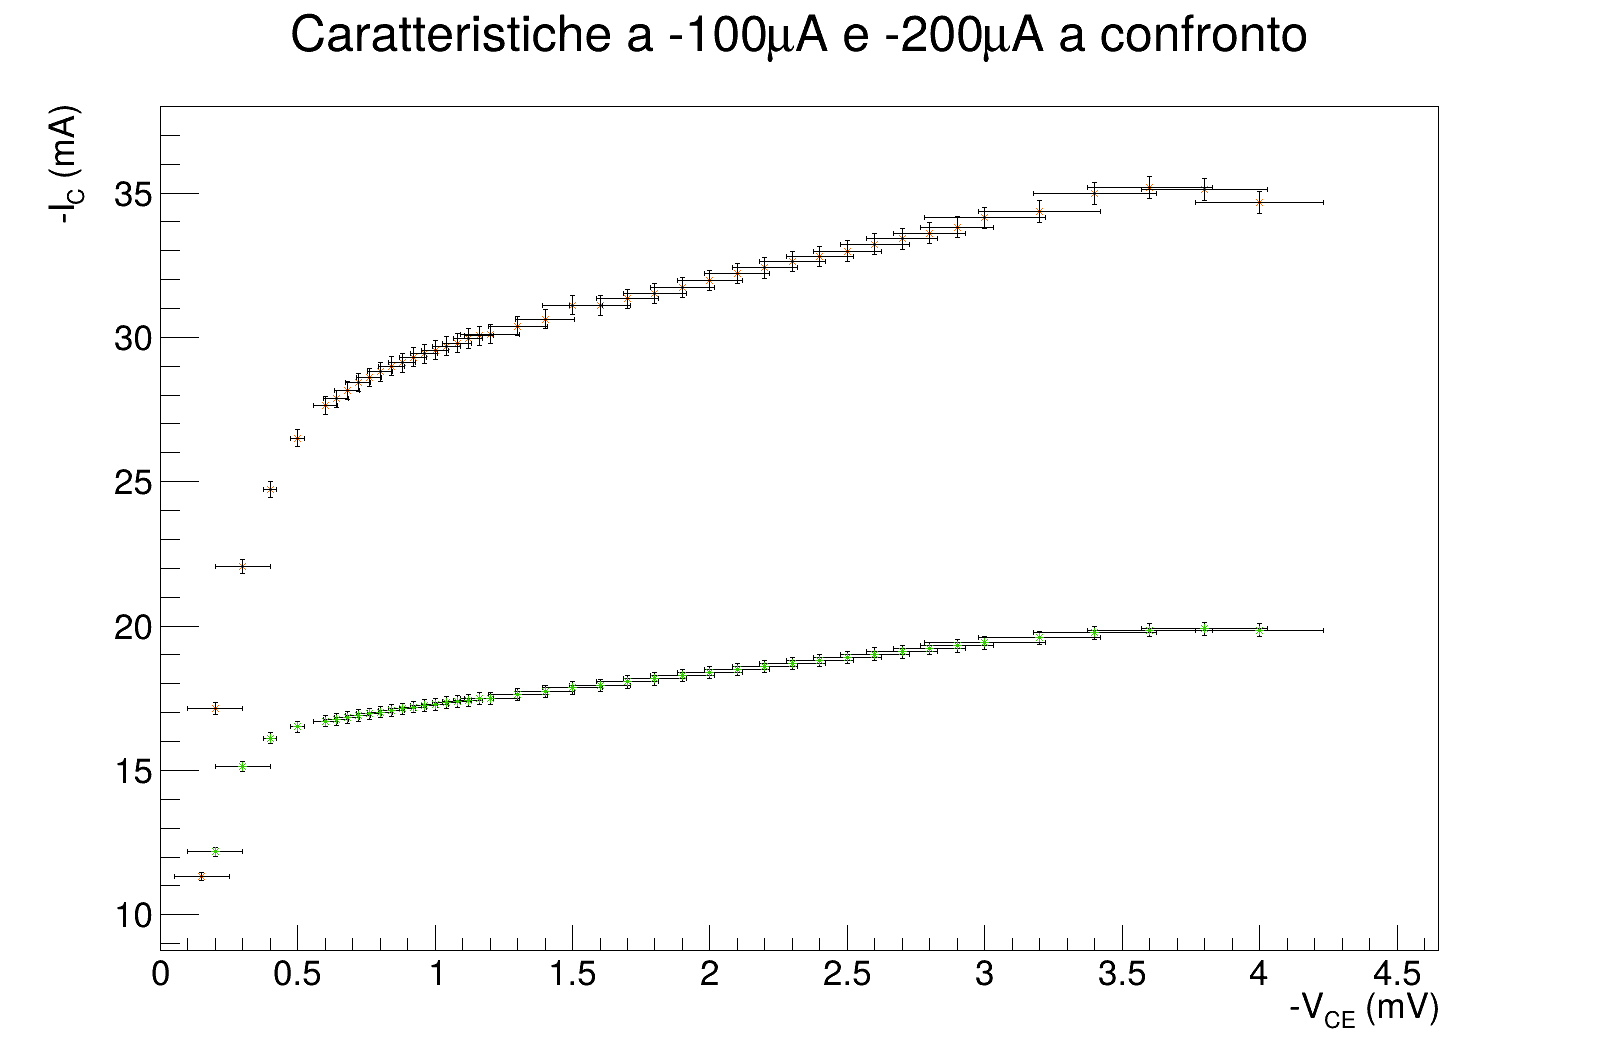
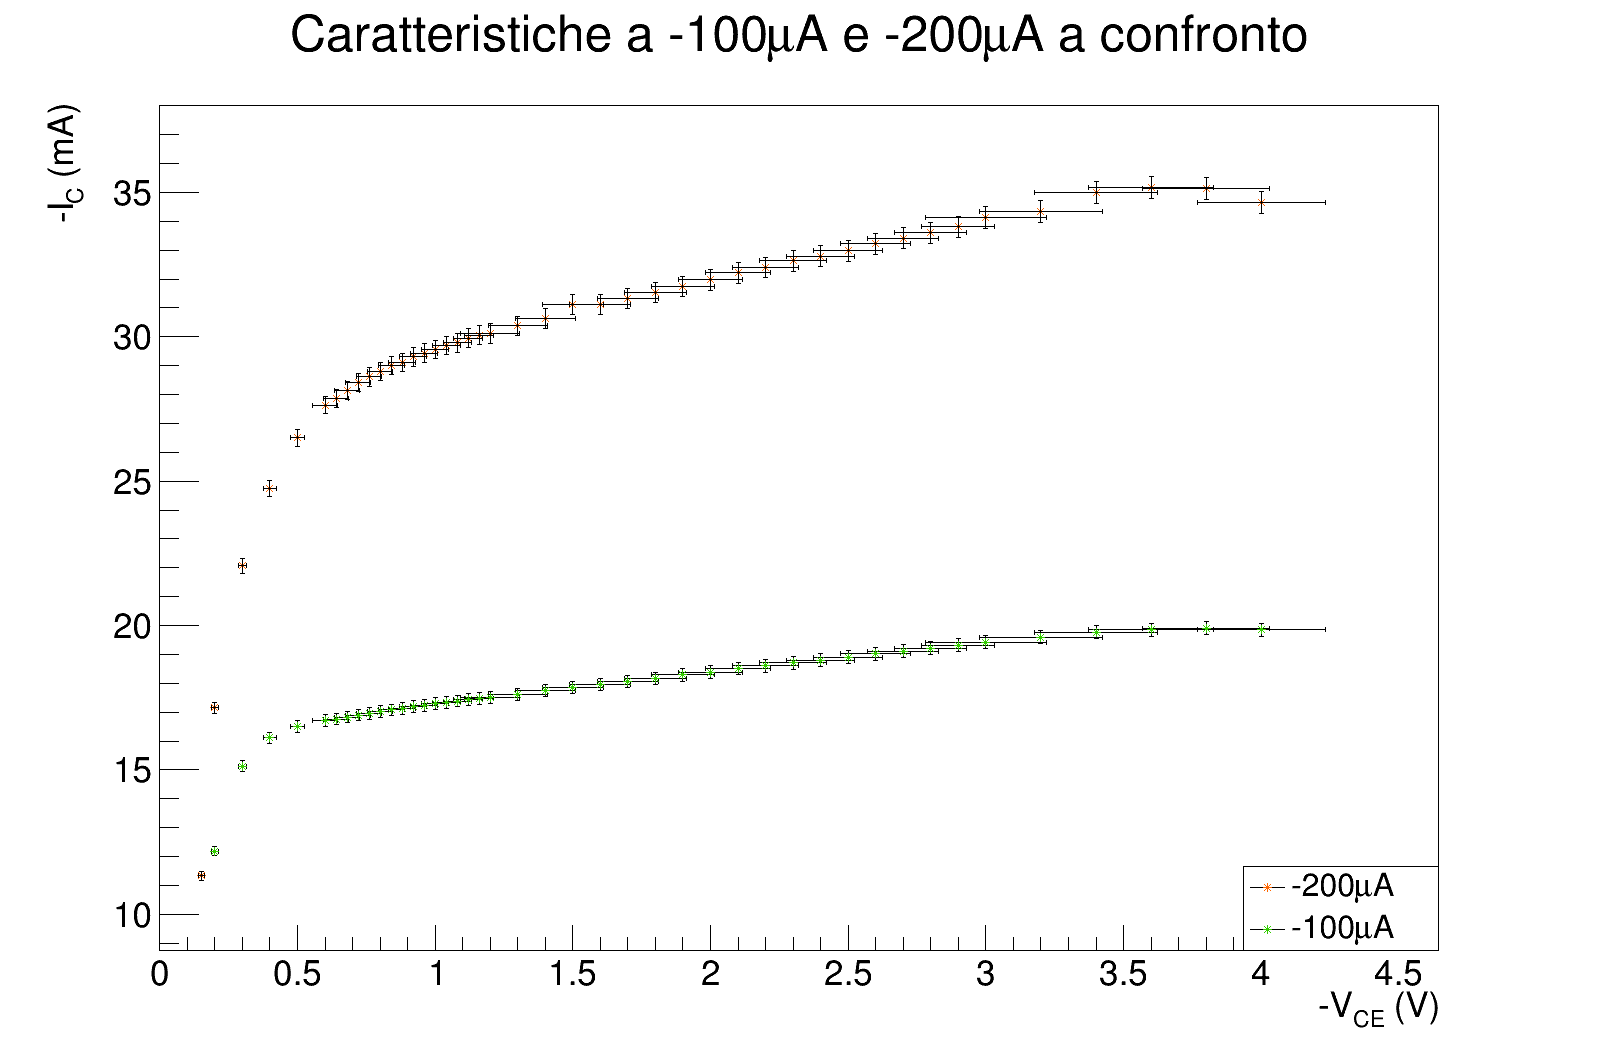
Messa legenda nel grafico aggregato

diff --git a/lab2/fit/grafico_aggregato.cpp b/lab2/fit/grafico_aggregato.cpp
@@ -4,10 +4,12 @@
 
 #include "TCanvas.h"
 #include "TGraphErrors.h"
+#include "TLegend.h"
+
+#include <string>
 
 #include "data_handling.hpp"
 #include "graphic_stuff.h"
-#include "TLegend.h"
 
 void createMultiGraph(const std::vector<const char *> &source_files,
                       const char *title, const char *output_file) {
@@ -31,12 +33,11 @@ void createMultiGraph(const std::vector<const char *> &source_files,
     graphs.back().SetMarkerStyle(1);
   }
 
-  auto legend = new TLegend(0.8,0.8,0.9,0.9);
+  TLegend legend{0.8,0.2,0.9,0.1};
   graphs[0].SetMarkerColor(kOrange+7);
   graphs[1].SetMarkerColor(kSpring-1);
-//  legend->SetHeader("The Legend Title","C"); // option "C" allows to center the header
-  legend->AddEntry("graphs[0]","-100#muA");
-  legend->AddEntry("graph[1]","-200#muA");
+  legend.AddEntry(&graphs[0],"-200#muA");
+  legend.AddEntry(&graphs[1],"-100#muA");
 
   graphs[0].SetTitle(title);
 
@@ -44,7 +45,7 @@ void createMultiGraph(const std::vector<const char *> &source_files,
 
   graphs[0].Draw("AP*");
   graphs[1].Draw("SAME P*");
-  legend->Draw();
+  legend.Draw();
 
   c.SaveAs(output_file);
 }
